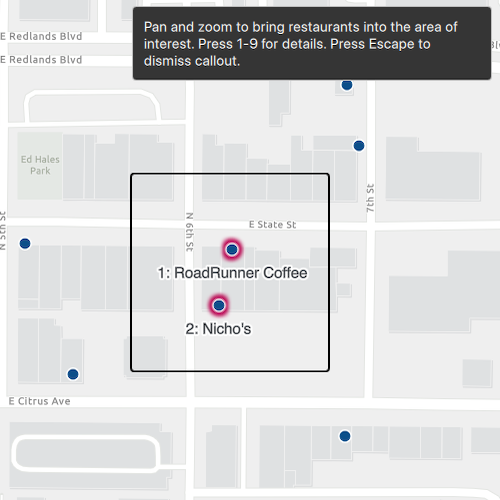
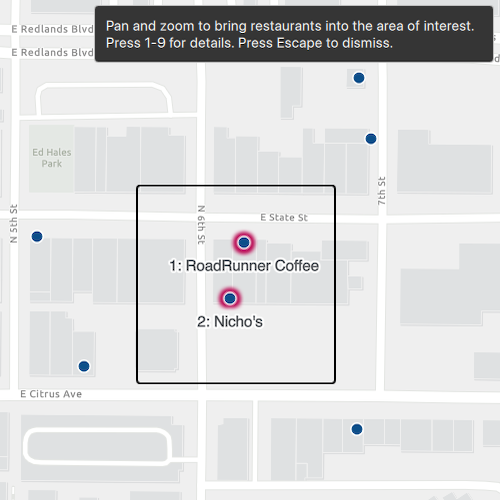
Update spacing and screenshot.

diff --git a/CppSamples/Accessibility/NavigateMapViewAndIdentifyFeaturesWithKeyboard/NavigateMapViewAndIdentifyFeaturesWithKeyboard.qml b/CppSamples/Accessibility/NavigateMapViewAndIdentifyFeaturesWithKeyboard/NavigateMapViewAndIdentifyFeaturesWithKeyboard.qml
@@ -70,7 +70,7 @@ Item {
       right: parent.right
       margins: root.spacing
     }
-    width: Math.max(0, Math.min(360, root.width - root.spacing * 2))
+    width: Math.max(0, Math.min(400, root.width - root.spacing * 2))
     padding: root.spacing
     background: Rectangle {
       color: palette.base
